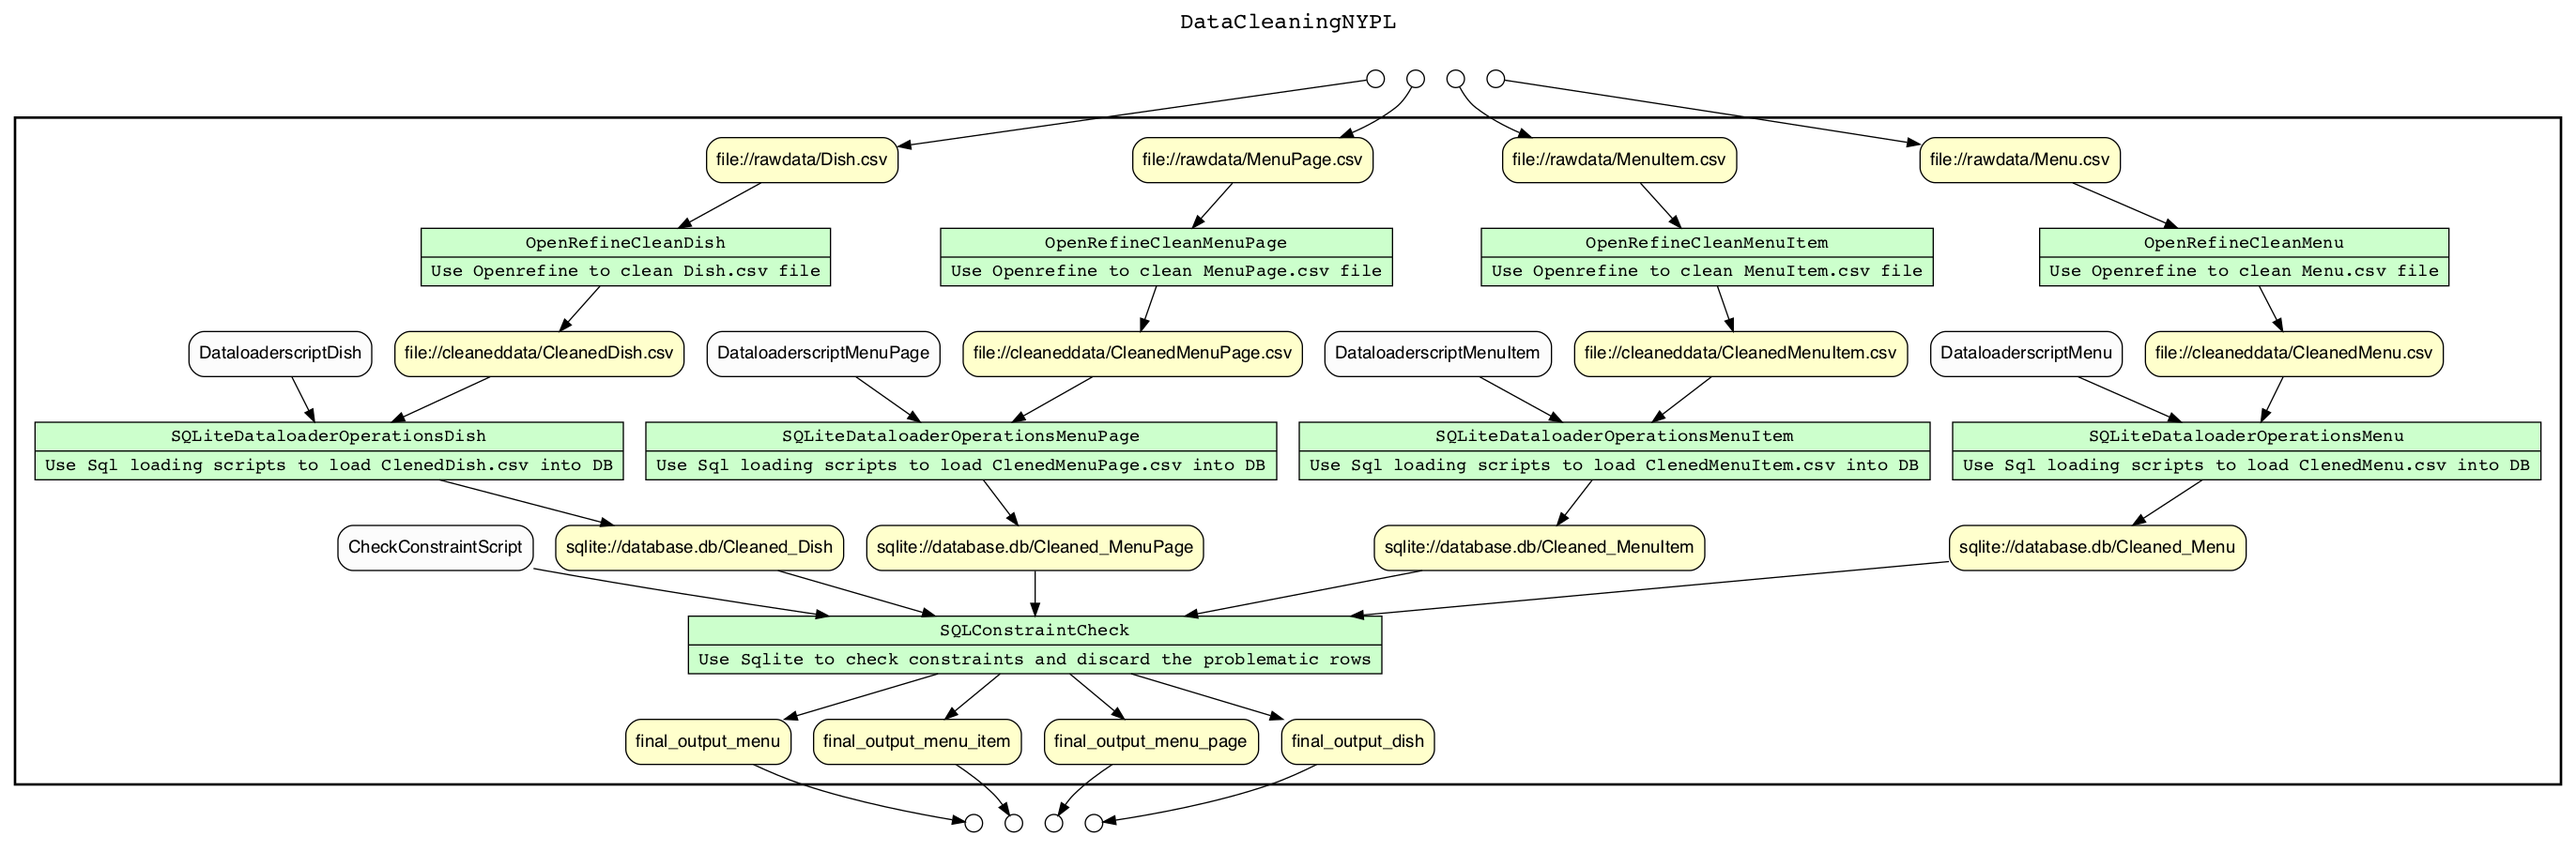
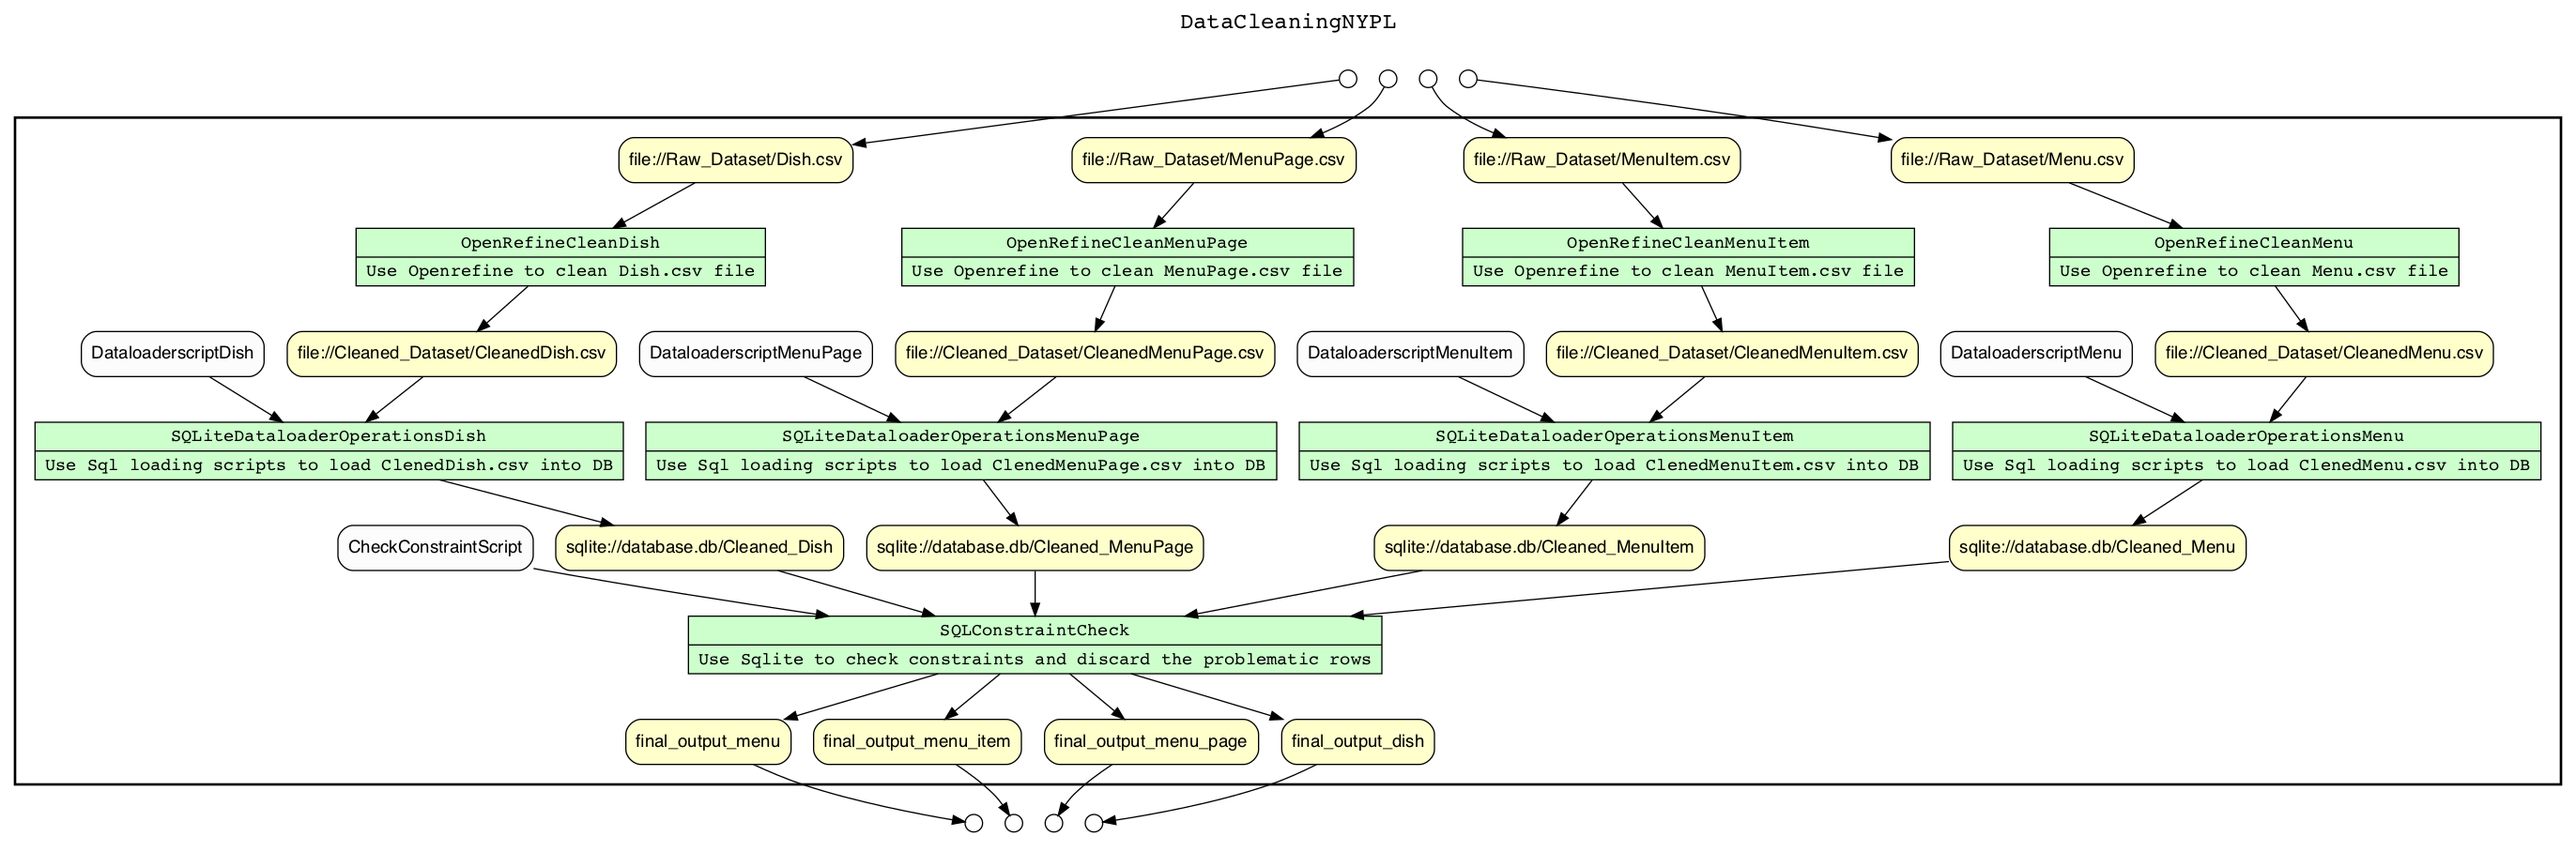
added workflow scripts

diff --git a/Workflow_Model/workflowscript.py b/Workflow_Model/workflowscript.py
@@ -1,51 +1,51 @@
 #@begin DataCleaningNYPL @desc Workflow for cleaning NYPL Menus public Dataset for menus
 
-#@in Menu.csv @uri file://rawdata/Menu.csv
-#@in MenuItem.csv @uri file://rawdata/MenuItem.csv
-#@in MenuPage.csv @uri file://rawdata/MenuPage.csv
-#@in Dish.csv @uri file://rawdata/Dish.csv
+#@in Menu.csv @uri file://Raw_Dataset/Menu.csv
+#@in MenuItem.csv @uri file://Raw_Dataset/MenuItem.csv
+#@in MenuPage.csv @uri file://Raw_Dataset/MenuPage.csv
+#@in Dish.csv @uri file://Raw_Dataset/Dish.csv
 
 	#@begin OpenRefineCleanMenu @desc Use Openrefine to clean Menu.csv file
-	#@in Menu.csv @uri file://rawdata/Menu.csv
-	#@out CleanedMenu.csv @uri file://cleaneddata/CleanedMenu.csv
+	#@in Menu.csv @uri file://Raw_Dataset/Menu.csv
+	#@out CleanedMenu.csv @uri file://Cleaned_Dataset/CleanedMenu.csv
 	#@end OpenRefineCleanMenu
 
 	
 	#@begin OpenRefineCleanMenuItem @desc Use Openrefine to clean MenuItem.csv file
-	#@in MenuItem.csv @uri file://rawdata/MenuItem.csv
-	#@out CleanedMenuItem.csv @uri file://cleaneddata/CleanedMenuItem.csv
+	#@in MenuItem.csv @uri file://Raw_Dataset/MenuItem.csv
+	#@out CleanedMenuItem.csv @uri file://Cleaned_Dataset/CleanedMenuItem.csv
 	#@end OpenRefineCleanMenuItem
 	
 	#@begin OpenRefineCleanMenuPage @desc Use Openrefine to clean MenuPage.csv file
-	#@in MenuPage.csv @uri file://rawdata/MenuPage.csv
-	#@out CleanedMenuPage.csv @uri file://cleaneddata/CleanedMenuPage.csv
+	#@in MenuPage.csv @uri file://Raw_Dataset/MenuPage.csv
+	#@out CleanedMenuPage.csv @uri file://Cleaned_Dataset/CleanedMenuPage.csv
 	#@end OpenRefineCleanMenuPage
 	
 	#@begin OpenRefineCleanDish @desc Use Openrefine to clean Dish.csv file
-	#@in Dish.csv @uri file://rawdata/Dish.csv
-	#@out CleanedDish.csv @uri file://cleaneddata/CleanedDish.csv
+	#@in Dish.csv @uri file://Raw_Dataset/Dish.csv
+	#@out CleanedDish.csv @uri file://Cleaned_Dataset/CleanedDish.csv
 	#@end OpenRefineCleanDish
 
 	#@begin SQLiteDataloaderOperationsMenu @desc Use Sql loading scripts to load ClenedMenu.csv into DB
-	#@in CleanedMenu.csv @uri file://cleaneddata/CleanedMenu.csv
+	#@in CleanedMenu.csv @uri file://Cleaned_Dataset/CleanedMenu.csv
         #@param DataloaderscriptMenu
 	#@out Cleaned_Menu @uri sqlite://database.db/Cleaned_Menu
 	#@end SQLiteDataloaderOperationsMenu
 	
 	#@begin SQLiteDataloaderOperationsMenuItem @desc Use Sql loading scripts to load ClenedMenuItem.csv into DB
-	#@in CleanedMenuItem.csv @uri file://cleaneddata/CleanedMenuItem.csv
+	#@in CleanedMenuItem.csv @uri file://Cleaned_Dataset/CleanedMenuItem.csv
         #@param DataloaderscriptMenuItem
 	#@out Cleaned_MenuItem @uri sqlite://database.db/Cleaned_MenuItem
 	#@end SQLiteDataloaderOperationsMenuItem
 	
 	#@begin SQLiteDataloaderOperationsMenuPage @desc Use Sql loading scripts to load ClenedMenuPage.csv into DB
-	#@in CleanedMenuPage.csv @uri file://cleaneddata/CleanedMenuPage.csv
+	#@in CleanedMenuPage.csv @uri file://Cleaned_Dataset/CleanedMenuPage.csv
         #@param DataloaderscriptMenuPage
 	#@out Cleaned_MenuPage @uri sqlite://database.db/Cleaned_MenuPage
 	#@end SQLiteDataloaderOperationsMenuPage
 	
 	#@begin SQLiteDataloaderOperationsDish @desc Use Sql loading scripts to load ClenedDish.csv into DB
-	#@in CleanedDish.csv @uri file://cleaneddata/CleanedDish.csv
+	#@in CleanedDish.csv @uri file://Cleaned_Dataset/CleanedDish.csv
         #@param DataloaderscriptDish
 	#@out Cleaned_Dish @uri sqlite://database.db/Cleaned_Dish
 	#@end SQLiteDataloaderOperationsDish
@@ -69,3 +69,4 @@
 #@out final_output_dish @uri sqlite://database.db/final_output_dish
 
 #@end DataCleaningNYPL
+
